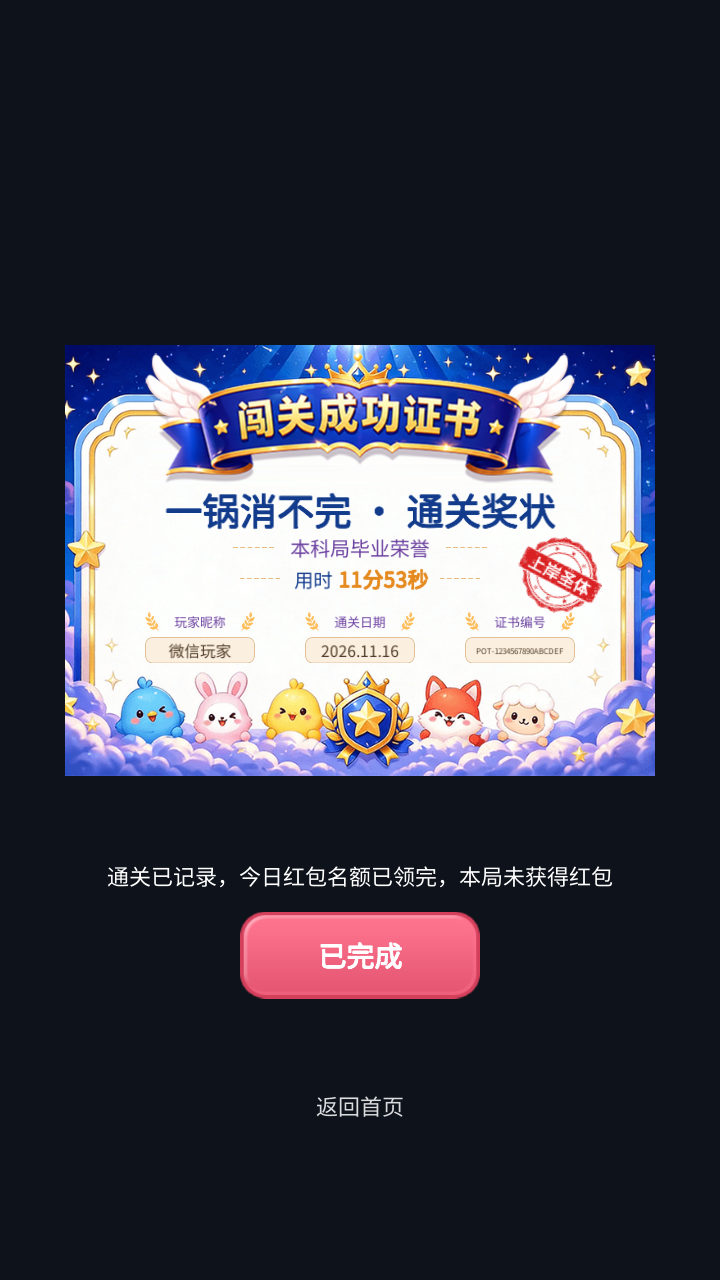
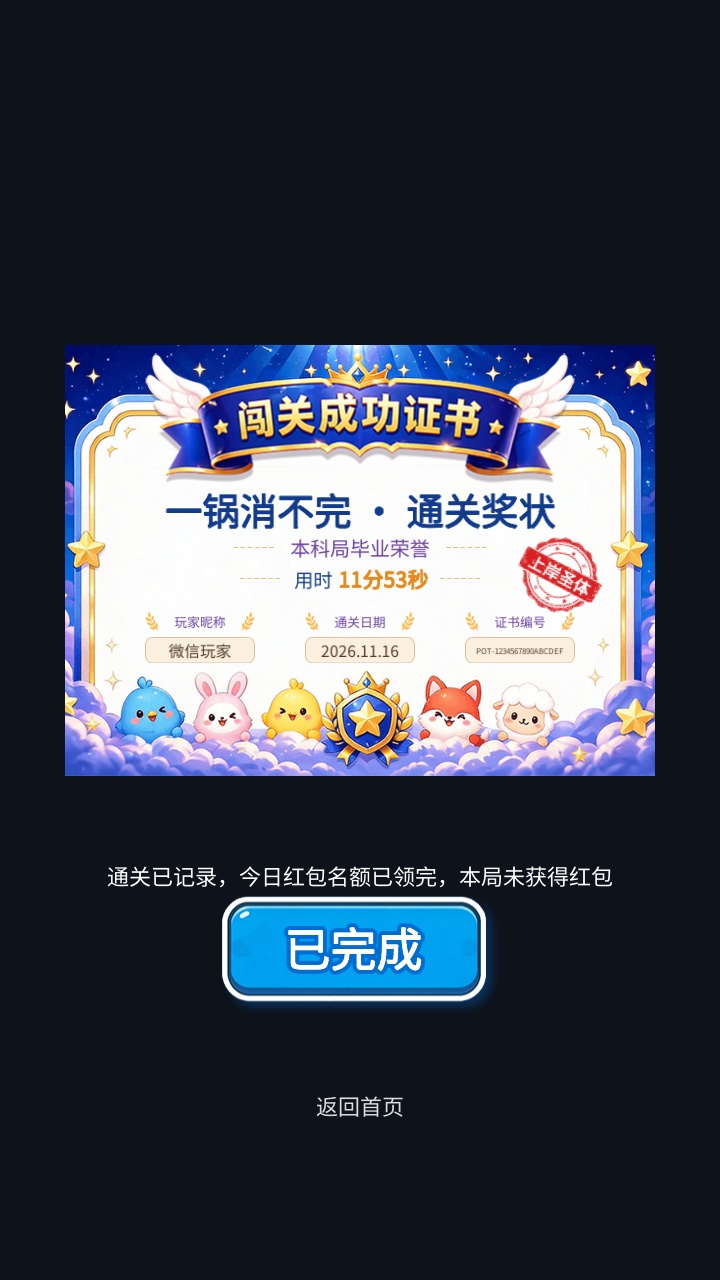
fix(pot): reuse game reward button for certificate claim

Changed region(s): [[0.3056, 0.6875, 0.7028, 0.8125]]

diff --git a/Tools/pot-certificate/export_assets.py b/Tools/pot-certificate/export_assets.py
@@ -5,9 +5,7 @@ root=pathlib.Path('/Users/liuzhenhua/Desktop/code/crazyCombo/client/assets/resou
 out=pathlib.Path(__file__).resolve().parents[2]/'Assets/Match3D/Resources/Match3D/PotCertificate'
 out.mkdir(parents=True,exist_ok=True)
 manifest=[]
-for atlas,names in [('newSpriteAsset/newCertificate',['bg_diploma_02','Certificatetitle_02','CertificateIcon_wings','CertificateIcon_03','CertificateIcon_05','CertificateIcon_07']),('images/Certificate',[f'icon_yinzhang_{i:02}' for i in range(1,7)]),('images/0314',[f'yz_{i:02}' for i in range(1,7)]),('newSpriteAsset/newhomeIcons',[])]:
- meta=json.loads((root/(atlas+'.plist.meta')).read_text())
- if not names:names=[meta['subMetas']['994b4']['name']]
+for atlas,names in [('newSpriteAsset/newCertificate',['bg_diploma_02','Certificatetitle_02','CertificateIcon_wings','CertificateIcon_03','CertificateIcon_05','CertificateIcon_07']),('images/Certificate',[f'icon_yinzhang_{i:02}' for i in range(1,7)]),('images/0314',[f'yz_{i:02}' for i in range(1,7)])]:
  frames=plistlib.loads((root/(atlas+'.plist')).read_bytes())['frames'];im=Image.open(root/(atlas+'.png')).convert('RGBA')
  for name in names:
   frame=frames.get(name,frames.get(name+'.png'));nums=lambda s:list(map(int,re.findall(r'-?\d+',s)))
@@ -15,7 +13,7 @@ for atlas,names in [('newSpriteAsset/newCertificate',['bg_diploma_02','Certifica
   pic=im.crop((x,y,x+(h if rot else w),y+(w if rot else h)))
   if rot:pic=pic.transpose(Image.Transpose.ROTATE_90)
   ow,oh=nums(frame['spriteSourceSize']);dx,dy=nums(frame['spriteOffset']);canvas=Image.new('RGBA',(ow,oh));canvas.paste(pic,((ow-pic.width)//2+dx,(oh-pic.height)//2-dy))
-  dest='pot-'+('button' if atlas.endswith('newhomeIcons') else name.lower())+'.png';canvas.save(out/dest)
+  dest='pot-'+name.lower()+'.png';canvas.save(out/dest)
   manifest.append({'file':dest,'atlas':atlas,'frame':name})
 (out/'pot-sources.json').write_text(json.dumps(manifest,ensure_ascii=False,indent=2)+'\n')
 print('Exported',len(manifest),'original atlas frames')

diff --git a/Assets/Match3D/Editor/PotCertificateBuilder.cs b/Assets/Match3D/Editor/PotCertificateBuilder.cs
@@ -66,8 +66,14 @@ public static class PotCertificateBuilder {
         v.bachelorStamps=new Sprite[6];v.eliteStamps=new Sprite[6];for(int i=0;i<6;i++){v.bachelorStamps[i]=Sprite("yz_"+(i+1).ToString("00"));v.eliteStamps[i]=Sprite("icon_yinzhang_"+(i+1).ToString("00"));}
         v.actions=Rect("Actions",fit,0,-300,600,250);v.actionsGroup=v.actions.gameObject.AddComponent<CanvasGroup>();
         v.status=Label("Status",v.actions,0,65,590,64,22);v.status.color=Color.white;
-        var button=Pic("Claim","button",v.actions,0,-15,240,87);button.raycastTarget=true;v.claim=button.gameObject.AddComponent<Button>();v.claim.targetGraphic=button;
-        v.buttonLabel=CertificateLabel("Claim label",button.transform,0,0,220,65,28,new Color32(255,255,255,255),true,"领取红包");
+        // Reuse this game's reward button, including its blue artwork, typography and stroke.
+        var rewardPrefab=AssetDatabase.LoadAssetAtPath<GameObject>(Root+"UI/RewardReceived.prefab");
+        if(!rewardPrefab)throw new InvalidOperationException("Missing game reward popup prefab");
+        var rewardButton=rewardPrefab.GetComponent<Match3DRewardPopup>().confirm;
+        var button=UnityEngine.Object.Instantiate(rewardButton.gameObject,v.actions,false);button.name="Claim";
+        ((RectTransform)button.transform).anchoredPosition=new Vector2(0,-15);
+        v.claim=button.GetComponent<Button>();v.buttonLabel=button.GetComponentInChildren<Text>();
+        v.buttonLabel.text="领取红包";
         var homeRect=Rect("Home",fit,0,-465,250,60);var graphic=homeRect.gameObject.AddComponent<Image>();graphic.color=Color.clear;v.home=homeRect.gameObject.AddComponent<Button>();v.home.targetGraphic=graphic;Label("Home label",homeRect,0,0,250,60,22,"返回首页").color=new Color(1,1,1,.85f);
         PrefabUtility.SaveAsPrefabAsset(root.gameObject,Root+"UI/PotCertificate.prefab");UnityEngine.Object.DestroyImmediate(root.gameObject);AssetDatabase.SaveAssets();
     }

diff --git a/docs/validation/pot-certificate/README.md b/docs/validation/pot-certificate/README.md
@@ -27,7 +27,7 @@
 
 ## 字体还原修正
 
-对照疯狂动物消 `Pre_certificate_big_item.prefab` 的实际 Label 参数修正：标题 #123B8C、37.3、加粗；档位 #6B3FA0、19.9；「用时」#123B8C、19.1；时间值 #E58A1F、21、加粗；底部标题 #6B3FA0、16×0.8；底部值 #503C28、18.7×0.8×0.55×1.9。按钮白色 28 加粗。恢复原底部坐标、字段尺寸及装饰。使用整数渲染字号配合局部缩放表示小数字号，仅底部动态长文本沿用原版缩小适配；仍使用项目现有系统中文字体策略，因此不同平台字形渲染可能略有差异。
+对照疯狂动物消 `Pre_certificate_big_item.prefab` 的实际 Label 参数修正：标题 #123B8C、37.3、加粗；档位 #6B3FA0、19.9；「用时」#123B8C、19.1；时间值 #E58A1F、21、加粗；底部标题 #6B3FA0、16×0.8；底部值 #503C28、18.7×0.8×0.55×1.9。按钮已按后续用户要求切换为本游戏的奖励按钮（见下文）。恢复原底部坐标、字段尺寸及装饰。使用整数渲染字号配合局部缩放表示小数字号，仅底部动态长文本沿用原版缩小适配；仍使用项目现有系统中文字体策略，因此不同平台字形渲染可能略有差异。
 
 本次纯客户端修正，重新生成预制体、通过 Unity 77 项检查并更新全部截图；未改动服务端，未部署或上传。
 
@@ -38,3 +38,9 @@
 从原图集导入 `CertificateIcon_05`（68×2），按原 prefab 的 .6 缩放显示为 40.8×1.2。档位行左右中心位于 ±106.397、y=16.893；用时行左右中心位于 ±100、y=-14.83（均相对 Main info）。四条线使用原图，而非文字、描边或程序绘制替代。与正文同组淡入，不改变文字颜色和字号。
 
 Unity 编译及既有 77 项检查通过；截图已确认两行左右的原图装饰线与无描边主标题。未部署或上传。
+
+## 使用本游戏按钮
+
+领取按钮直接复用一锅消 `RewardReceived.prefab` 中的按钮对象：`RewardSkinPS/image_btn_blue02.png`、46 px 白色粗体、4 px 蓝色描边，保留按钮自身尺寸及状态样式。按钮文本为「领取红包」。已移除疯狂动物消粉色 pot-button 图片及 meta，并从导出脚本和资源清单移除 newhomeIcons 依赖；删除前确认旧 GUID 已无引用。
+
+Unity 编译及既有 77 项检查通过，三种屏幕比例、领取与额度耗尽截图已更新。未部署或上传。
